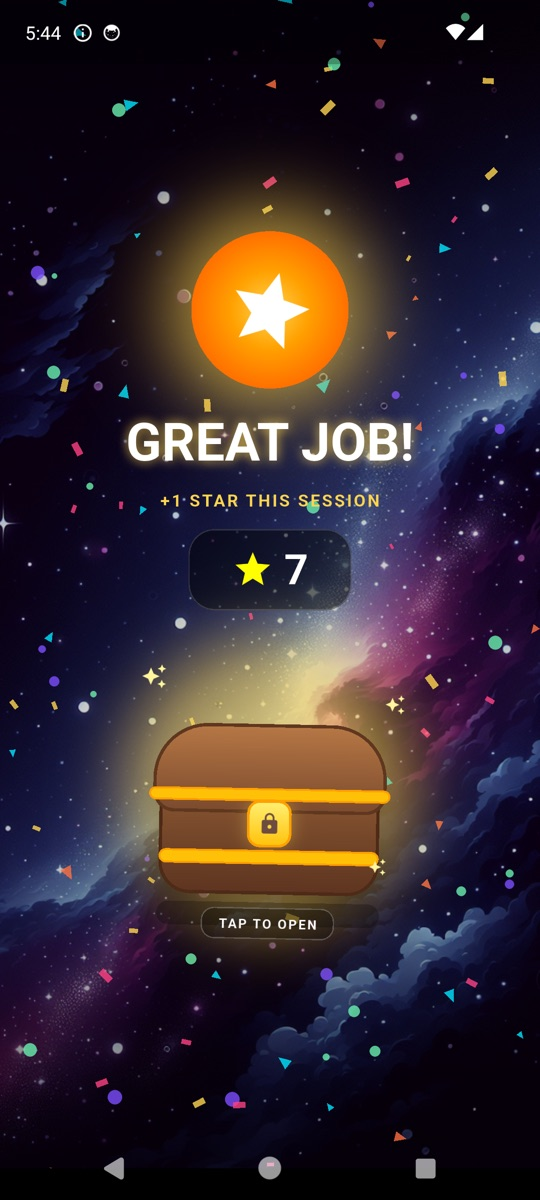
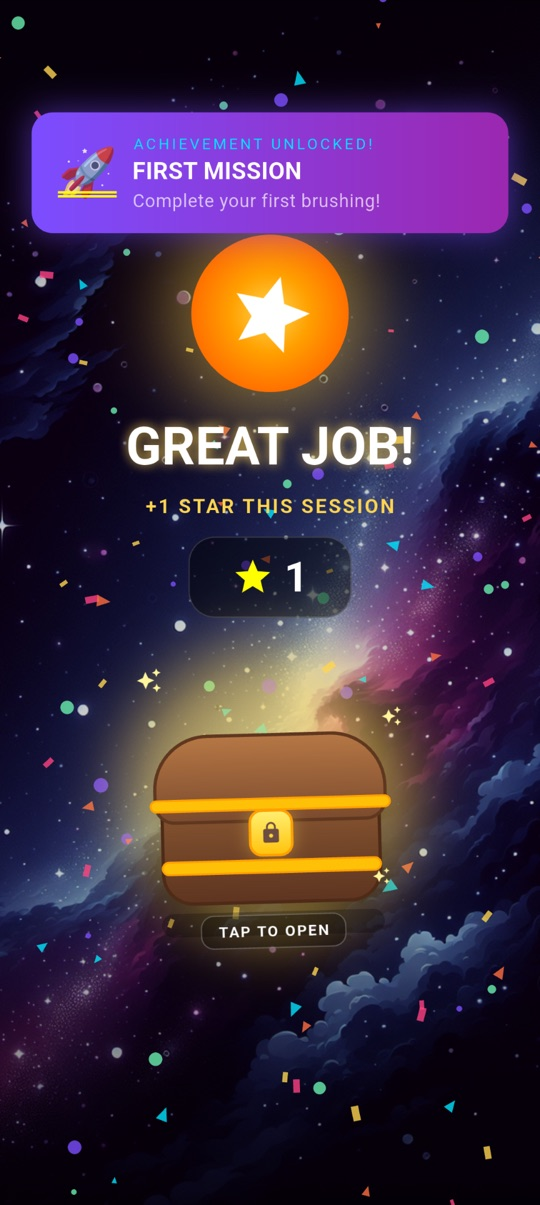
Landing page v3: 12-point audit fix, fresh screenshots, family photo
- Hero pivot: "What if brushing was the one battle they wanted to fight?"
- Removed false claims: "Free Forever", "No Tracking" (Firebase Analytics exists)
- Removed redundant numbers bar, scroll-hint overlap
- Rewrote 5 feature cards from parent perspective (agent-researched)
- Story centers Oliver, not dad; real family photo replaces placeholder
- Fresh screenshots from latest app build (home, battle, heroes, victory)
- CSS fixes: aspect-ratio lock on feature graphic + screenshot images
- Video gets controls attribute for fallback playback
- Added Landing Page / Marketing Copy rules to CLAUDE.md

diff --git a/docs/index.html b/docs/index.html
@@ -4,7 +4,7 @@
   <meta charset="UTF-8">
   <meta name="viewport" content="width=device-width, initial-scale=1.0">
   <title>Brush Quest - Kids Toothbrushing App That Makes Brushing Fun</title>
-  <meta name="description" content="Your kid will beg to brush their teeth. Free Android app that turns 2 minutes of brushing into a space battle. 10 worlds, 70 monsters.">
+  <meta name="description" content="Your kid will beg to brush their teeth. Android app that turns 2 minutes of brushing into a space battle. 10 worlds, 70 monsters.">
   <meta name="author" content="Jim Chabas">
   <meta name="theme-color" content="#0D0B2E">
   <meta name="robots" content="index, follow">
@@ -23,7 +23,7 @@
 
   <!-- Open Graph -->
   <meta property="og:title" content="Brush Quest - Kids Toothbrushing App That Makes Brushing Fun">
-  <meta property="og:description" content="Your kid will actually ask to brush their teeth. Free Android toothbrushing app for kids — no ads, no tracking.">
+  <meta property="og:description" content="Your kid will actually ask to brush their teeth. Android toothbrushing app for kids — 10 worlds, 70 monsters, no ads.">
   <meta property="og:image" content="https://jmchabas.github.io/brush-quest/feature-graphic.jpg">
   <meta property="og:image:width" content="1024">
   <meta property="og:image:height" content="500">
@@ -34,7 +34,7 @@
   <!-- Twitter Card -->
   <meta name="twitter:card" content="summary_large_image">
   <meta name="twitter:title" content="Brush Quest - Kids Toothbrushing App That Makes Brushing Fun">
-  <meta name="twitter:description" content="Your kid will actually ask to brush their teeth. Free Android toothbrushing app for kids — no ads, no tracking.">
+  <meta name="twitter:description" content="Your kid will actually ask to brush their teeth. Android toothbrushing app for kids — 10 worlds, 70 monsters, no ads.">
   <meta name="twitter:image" content="https://jmchabas.github.io/brush-quest/feature-graphic.jpg">
 
   <!-- Structured Data: SoftwareApplication -->
@@ -76,7 +76,7 @@
         "name": "Is it really free?",
         "acceptedAnswer": {
           "@type": "Answer",
-          "text": "Yes, completely. No ads, no in-app purchases, no premium tiers, no subscriptions. Jim built it for his own kids and shares it with other families for free."
+          "text": "Yes. No ads, no in-app purchases, no subscriptions. Built for Jim's own kids and shared with other families."
         }
       },
       {
@@ -84,7 +84,7 @@
         "name": "Is it safe for my child?",
         "acceptedAnswer": {
           "@type": "Answer",
-          "text": "Brush Quest collects no personal data. The optional Google Sign-In is only for cloud saves. There are no social features, no chat, no links to external sites. The app is designed to be COPPA-compliant."
+          "text": "The optional Google Sign-In is only for cloud saves. There are no social features, no chat, no links to external sites. The app is designed to be COPPA-compliant."
         }
       },
       {
@@ -312,6 +312,9 @@
     .hero-graphic {
       width: 100%;
       max-width: 560px;
+      height: auto;
+      aspect-ratio: 1024 / 500;
+      object-fit: contain;
       border-radius: 20px;
       margin-bottom: 32px;
       box-shadow:
@@ -516,6 +519,7 @@
 
     .phone-bezel img {
       width: 100%;
+      height: auto;
       border-radius: 18px;
       display: block;
     }
@@ -755,17 +759,15 @@
 
     .story-photo {
       width: 100%;
-      aspect-ratio: 4 / 3;
       border-radius: 20px;
-      border: 2px dashed rgba(124, 77, 255, 0.3);
-      display: flex;
-      align-items: center;
-      justify-content: center;
-      background: var(--bg-card);
-      color: var(--white-dim);
-      font-size: 0.9rem;
-      text-align: center;
-      padding: 24px;
+      overflow: hidden;
+    }
+
+    .story-photo img {
+      width: 100%;
+      height: auto;
+      border-radius: 20px;
+      display: block;
     }
 
     /* === FAQ === */
@@ -1128,20 +1130,14 @@
     <!-- ========== HERO ========== -->
     <section class="hero" id="hero">
       <p class="hero-pain">"Every night, the same battle.<br>'Brush your teeth!' &hellip; 'I don't want to!'"</p>
-      <p class="hero-pivot">What if they begged to fight cavity monsters instead?</p>
+      <p class="hero-pivot">What if brushing was the one battle they wanted to fight?</p>
       <img src="feature-graphic.jpg" alt="Brush Quest - A space astronaut hero fighting cavity monsters with a glowing toothbrush" class="hero-graphic" width="1024" height="500" fetchpriority="high">
       <h1>Brush Quest</h1>
-      <p class="tagline">10 worlds. 70 monsters. 2 minutes of brushing. 0 arguments.</p>
+      <p class="tagline">The toothbrushing app that turns 2 minutes into an adventure.</p>
       <a href="https://drive.google.com/uc?export=download&id=16lFngFzb5AP0ltEK9Uq20Pp-pP04Sc2R" class="hero-cta" rel="noopener noreferrer">
         <svg viewBox="0 0 24 24" aria-hidden="true"><path d="M5 20h14v-2H5v2zm7-18v12.17l3.59-3.58L17 12l-5 5-5-5 1.41-1.41L12 14.17V2z"/></svg>
-        Download Free for Android
+        Download for Android
       </a>
-      <div class="numbers-bar">
-        <span class="number-stat">&#x1F30D; 10 Worlds</span>
-        <span class="number-stat">&#x1F47E; 70 Monsters</span>
-        <span class="number-stat">&#x1F9D1;&#x200D;&#x1F680; 12 Heroes &amp; Weapons</span>
-        <span class="number-stat">&#x2B50; 100% Free</span>
-      </div>
       <div class="trust-badges">
         <span class="trust-badge">
           <svg viewBox="0 0 24 24" aria-hidden="true"><path d="M12 1L3 5v6c0 5.55 3.84 10.74 9 12 5.16-1.26 9-6.45 9-12V5l-9-4z"/></svg>
@@ -1149,11 +1145,7 @@
         </span>
         <span class="trust-badge">
           <svg viewBox="0 0 24 24" aria-hidden="true"><path d="M12 1L3 5v6c0 5.55 3.84 10.74 9 12 5.16-1.26 9-6.45 9-12V5l-9-4z"/></svg>
-          No Tracking
-        </span>
-        <span class="trust-badge">
-          <svg viewBox="0 0 24 24" aria-hidden="true"><path d="M12 1L3 5v6c0 5.55 3.84 10.74 9 12 5.16-1.26 9-6.45 9-12V5l-9-4z"/></svg>
-          Free Forever
+          No In-App Purchases
         </span>
         <span class="trust-badge">
           <svg viewBox="0 0 24 24" aria-hidden="true"><path d="M12 1L3 5v6c0 5.55 3.84 10.74 9 12 5.16-1.26 9-6.45 9-12V5l-9-4z"/></svg>
@@ -1161,10 +1153,6 @@
         </span>
       </div>
       <p class="hero-note">Android phones and tablets</p>
-      <div class="scroll-hint">
-        Scroll to learn more
-        <svg viewBox="0 0 24 24"><path d="M7.41 8.59L12 13.17l4.59-4.58L18 10l-6 6-6-6z"/></svg>
-      </div>
     </section>
 
     <!-- ========== SCREENSHOTS ========== -->
@@ -1178,25 +1166,25 @@
       <div class="phone-scroll">
         <div class="phone-frame">
           <div class="phone-bezel">
-            <img src="screenshot_home.jpg" alt="Home screen showing hero character Blaze with stats and Brush Now button" loading="lazy" width="540" height="1200">
+            <img src="screenshot_home.jpg" alt="Home screen showing hero character Blaze with stats and Brush Now button" loading="lazy" width="540" height="1205">
           </div>
           <p class="phone-caption">Choose your hero</p>
         </div>
         <div class="phone-frame">
           <div class="phone-bezel">
-            <img src="screenshot_battle.jpg" alt="Battle screen fighting Lord Tartar monster with POW effects in Candy Crater world" loading="lazy" width="540" height="1200">
+            <img src="screenshot_battle.jpg" alt="Battle screen fighting Lord Tartar monster with POW effects in Candy Crater world" loading="lazy" width="540" height="1205">
           </div>
           <p class="phone-caption">Brush to attack monsters</p>
         </div>
         <div class="phone-frame">
           <div class="phone-bezel">
-            <img src="screenshot_shop.jpg" alt="Heroes and Weapons shop showing unlockable characters Blaze, Frost, Bolt, Shadow" loading="lazy" width="540" height="1200">
+            <img src="screenshot_shop.jpg" alt="Heroes and Weapons shop showing unlockable characters Blaze, Frost, Bolt, Shadow" loading="lazy" width="540" height="1205">
           </div>
           <p class="phone-caption">Unlock heroes &amp; weapons</p>
         </div>
         <div class="phone-frame">
           <div class="phone-bezel">
-            <img src="screenshot_victory.jpg" alt="Victory screen with confetti, star reward, and treasure chest after brushing session" loading="lazy" width="540" height="1200">
+            <img src="screenshot_victory.jpg" alt="Victory screen with confetti, star reward, and treasure chest after brushing session" loading="lazy" width="540" height="1205">
           </div>
           <p class="phone-caption">Earn stars &amp; open reward chests</p>
         </div>
@@ -1207,14 +1195,14 @@
     <div class="mid-cta">
       <a href="https://drive.google.com/uc?export=download&id=16lFngFzb5AP0ltEK9Uq20Pp-pP04Sc2R" rel="noopener noreferrer">
         <svg viewBox="0 0 24 24" aria-hidden="true"><path d="M5 20h14v-2H5v2zm7-18v12.17l3.59-3.58L17 12l-5 5-5-5 1.41-1.41L12 14.17V2z"/></svg>
-        Like what you see? Download Free
+        Get Brush Quest for Android
       </a>
     </div>
 
     <!-- ========== GAMEPLAY VIDEO ========== -->
     <section class="video-section">
       <div class="video-phone">
-        <video muted loop playsinline preload="none" poster="gameplay-poster.jpg" aria-label="Gameplay video showing a child brushing their teeth while fighting monsters in Brush Quest">
+        <video muted loop playsinline controls preload="none" poster="gameplay-poster.jpg" aria-label="Gameplay video showing a child brushing their teeth while fighting monsters in Brush Quest">
           <source src="gameplay.mp4" type="video/mp4">
         </video>
       </div>
@@ -1266,34 +1254,29 @@
         </div>
         <div class="features-grid">
           <div class="feature-card">
-            <span class="feature-icon">&#x23F1;&#xFE0F;</span>
-            <h3>2 Minutes, Zero Arguments</h3>
-            <p>Dentist-recommended brushing time split into 4 mouth zones. A voice guide and tooth diagram show exactly where to brush. They won't want to stop.</p>
-          </div>
-          <div class="feature-card">
             <span class="feature-icon">&#x1F47E;</span>
-            <h3>70 Monsters. New Ones Every Session.</h3>
-            <p>Collectible monster cards across 10 space worlds. Each brush session reveals new creatures. "Can I brush again?" &mdash; actual words you'll hear.</p>
+            <h3>They'll Beg to Brush Again</h3>
+            <p>70 monsters across 10 worlds. New enemies every session, unlockable heroes and weapons. The "one more level" loop &mdash; for dental hygiene.</p>
           </div>
           <div class="feature-card">
-            <span class="feature-icon">&#x1F9D1;&#x200D;&#x1F680;</span>
-            <h3>They Pick the Hero. You Pick Your Battles.</h3>
-            <p>6 heroes and 6 weapons to unlock. Kids earn stars from brushing and choose their own character. Ownership drives consistency.</p>
-          </div>
-          <div class="feature-card">
-            <span class="feature-icon">&#x1FA90;</span>
-            <h3>10 Worlds of "Can I Brush Again?"</h3>
-            <p>From Candy Crater to Dark Dimension. Progress unlocks naturally &mdash; no pressure, just adventure.</p>
-          </div>
-          <div class="feature-card feature-highlight">
-            <span class="feature-icon">&#x1F49A;</span>
-            <h3>Free. No Catches.</h3>
-            <p>No ads. No in-app purchases. No subscriptions. No data collection. Built by a parent for parents. Your kid's attention isn't for sale.</p>
+            <span class="feature-icon">&#x23F1;&#xFE0F;</span>
+            <h3>Two Minutes. Four Zones. Done.</h3>
+            <p>Voice guide tells them where to brush: top left, top right, bottom left, bottom right. You press start. They follow along.</p>
           </div>
           <div class="feature-card">
             <span class="feature-icon">&#x1F399;&#xFE0F;</span>
             <h3>Works Before They Can Read</h3>
-            <p>Voice guidance and icons throughout. Designed for children ages 5&ndash;12 who can't read yet. They can play independently from day one.</p>
+            <p>Every instruction spoken aloud. Visual mouth guide shows which teeth to brush. Designed for ages 5 and up.</p>
+          </div>
+          <div class="feature-card">
+            <span class="feature-icon">&#x2B50;</span>
+            <h3>Earned, Never Bought</h3>
+            <p>6 heroes and 6 weapons, unlocked by brushing consistently. No in-app purchases. Every reward comes from showing up.</p>
+          </div>
+          <div class="feature-card feature-highlight">
+            <span class="feature-icon">&#x1F9D1;&#x200D;&#x1F680;</span>
+            <h3>Built by a Dad. Tested by a 7-Year-Old.</h3>
+            <p>Not a corporation. A dad who got tired of the brushing fight. Tested on his own kids, every single night.</p>
           </div>
         </div>
       </div>
@@ -1303,23 +1286,22 @@
     <section class="story-section">
       <div class="container">
         <div class="section-title">
-          <h2>Built by a Dad, Tested by His Kids</h2>
+          <h2>How Oliver Stopped Hating Toothbrushing</h2>
         </div>
         <div class="story-grid">
           <div class="story-text">
-            <h3>This app exists because of a 7-year-old named Oliver.</h3>
-            <p>Every night was the same fight. "Go brush your teeth." "I don't want to." Repeat until someone loses their patience. Sound familiar?</p>
-            <p>So his dad Jim &mdash; a developer &mdash; built a game. Oliver became the lead designer: he chose the heroes, picked which monsters were scary enough, and demanded surprise rewards after every session.</p>
-            <p>Oliver now reminds US it's brushing time. He literally runs to the bathroom. We created a monster. A cavity-fighting, star-collecting, hero-unlocking monster.</p>
-            <p>Then something unexpected happened. Oliver's 3-year-old brother Theo saw the app and insisted on brushing "like a big boy." Two kids, fighting over who gets to brush first &mdash; making dental hygiene fun instead of a fight.</p>
+            <h3>Oliver is 7. He used to fight his parents every single night.</h3>
+            <p>"Go brush your teeth." "I don't want to." Repeat until someone loses their patience. Sound familiar?</p>
+            <p>Then his dad built him a game. Oliver became the lead designer: he chose which heroes looked cool, which monsters were scary enough, and demanded surprise rewards after every session.</p>
+            <p>Now Oliver reminds his parents it's brushing time. He runs to the bathroom. He fights over who goes first with his 3-year-old brother Theo, who insists on brushing "like a big boy."</p>
+            <p>Two kids. Zero arguments. The same app, shared with your family.</p>
             <div class="story-quote">
               <p>"I built this because no app on the store felt right &mdash; too many ads, too much screen time guilt. This one just helps them brush."</p>
-              <span class="quote-attr">&mdash; Jim, parent to parent</span>
+              <span class="quote-attr">&mdash; Jim, Oliver's dad</span>
             </div>
-            <p>Brush Quest isn't a corporate product. It's a family project, shared with yours.</p>
           </div>
           <div class="story-photo">
-            Photo coming soon &mdash;<br>Jim, Oliver (7) &amp; Theo (3)<br>testing Brush Quest together
+            <img src="family-photo.jpg" alt="Jim reading a bedtime story with Oliver (7) and Theo (3)" width="800" height="721" loading="lazy">
           </div>
         </div>
       </div>
@@ -1334,11 +1316,11 @@
         <div class="faq-list">
           <details>
             <summary>Is it really free?</summary>
-            <div class="faq-answer">Yes, completely. No ads, no in-app purchases, no premium tiers, no subscriptions. Jim built it for his own kids and shares it with other families for free.</div>
+            <div class="faq-answer">Yes. No ads, no in-app purchases, no subscriptions. Built for Jim's own kids and shared with other families.</div>
           </details>
           <details>
             <summary>Is it safe for my child?</summary>
-            <div class="faq-answer">Brush Quest collects no personal data. The optional Google Sign-In is only for cloud saves (so you don't lose progress if you switch phones). There are no social features, no chat, no links to external sites. The app is designed to be COPPA-compliant.</div>
+            <div class="faq-answer">The optional Google Sign-In is only for cloud saves (so you don't lose progress if you switch phones). There are no social features, no chat, no links to external sites. The app is designed to be COPPA-compliant.</div>
           </details>
           <details>
             <summary>Does it work offline?</summary>
@@ -1398,11 +1380,11 @@
           </span>
           <span class="trust-badge">
             <svg viewBox="0 0 24 24" aria-hidden="true"><path d="M12 1L3 5v6c0 5.55 3.84 10.74 9 12 5.16-1.26 9-6.45 9-12V5l-9-4z"/></svg>
-            No Tracking
+            No In-App Purchases
           </span>
           <span class="trust-badge">
             <svg viewBox="0 0 24 24" aria-hidden="true"><path d="M12 1L3 5v6c0 5.55 3.84 10.74 9 12 5.16-1.26 9-6.45 9-12V5l-9-4z"/></svg>
-            Free Forever
+            Kid-Safe Privacy
           </span>
         </div>
         <button class="share-btn" onclick="shareApp()">
@@ -1427,10 +1409,10 @@
 
   <!-- Sticky CTA bar -->
   <div class="sticky-cta" id="stickyCta">
-    <span class="sticky-cta-text">Free toothbrushing app for kids</span>
+    <span class="sticky-cta-text">Toothbrushing app for kids</span>
     <a href="https://drive.google.com/uc?export=download&id=16lFngFzb5AP0ltEK9Uq20Pp-pP04Sc2R" rel="noopener noreferrer">
       <svg viewBox="0 0 24 24" aria-hidden="true"><path d="M5 20h14v-2H5v2zm7-18v12.17l3.59-3.58L17 12l-5 5-5-5 1.41-1.41L12 14.17V2z"/></svg>
-      Download Free
+      Download Now
     </a>
   </div>
 
@@ -1468,7 +1450,7 @@
         btns.forEach(function(btn) {
           btn.removeAttribute('href');
           btn.style.cursor = 'default';
-          btn.innerHTML = btn.innerHTML.replace(/Download.*/, 'Coming Soon to iOS');
+          btn.innerHTML = btn.innerHTML.replace(/Download[^<]*|Get[^<]*/, 'Coming Soon to iOS');
         });
         var sub = document.querySelector('.download-sub');
         if (sub) sub.textContent = 'Android only for now — share this with an Android friend!';

diff --git a/CLAUDE.md b/CLAUDE.md
@@ -4,7 +4,12 @@
 An Android app to help 7-year-old boys build a toothbrushing habit through gamification.
 Theme: Space Rangers vs Cavity Monsters.
 
-## Status: v4 — Settings + Firebase Auth/Sync
+## Status: v7 — Play Store submission prep (feature-complete)
+
+## Cross-Session Coordination
+- **FEATURE FREEZE**: No new features until 100 real users (D-003). Only: bug fixes, Play Store requirements, analytics.
+- After significant work (commits, deploys, decisions), auto-update your workstream section in `STATUS.md`. Don't wait for Jim to ask.
+- For strategy/CEO mode, use `/ceo`. For manual status update, use `/status`.
 
 ## Pre-Ship UX Checklist
 Before shipping any screen or flow, do a first-person walkthrough as the end user (a 7-year-old who can't read). For every screen ask:
@@ -102,6 +107,15 @@ assets/
 - Periodic music health check (every 5s) restarts music if player gets stuck
 - Mute state persisted in SharedPreferences
 
+## Quality Gates
+After modifying `.dart` files, run these before reporting done:
+1. **`dart analyze`** — static analysis (auto-runs via Claude Code hook on Edit/Write)
+2. **`flutter test`** — unit/widget tests must pass
+3. **`semgrep --config auto lib/`** — security scanning (if installed)
+4. **`gitleaks detect --source .`** — secret detection (if installed)
+
+If a gate fails, fix the issue before presenting the result.
+
 ## Build & Run
 ```bash
 export JAVA_HOME="/opt/homebrew/opt/openjdk@17/libexec/openjdk.jdk/Contents/Home"
@@ -110,6 +124,22 @@ flutter run          # run on connected device/emulator
 flutter build apk    # build release APK
 ```
 Note: JDK 17 required. JDK 25 is incompatible with AGP 8.11.1.
+
+## Landing Page / Marketing Copy Rules
+
+### Copy & Messaging
+1. **Write from the parent's lived experience, not the product's features.** Ask: "What does the parent already feel about this problem?" Acknowledge it with humor or empathy, then pivot to the outcome. Read each line aloud — would a real person say this to a friend?
+2. **Never state a business commitment the codebase can't guarantee.** No "Free Forever," "No Tracking," "No Ads Ever" unless architecturally enforced. Check actual dependencies (Firebase Analytics, ad SDKs) before making privacy/pricing claims. Use softer language ("No in-app purchases," "Kid-safe privacy").
+3. **Kill filler sections.** If two sections say the same thing (e.g., stats bar + feature cards both listing "4 quadrants, 2 minutes"), cut the weaker one. Every section must earn its scroll.
+
+### Visual / Technical
+4. **Lock aspect ratios for all media.** Every `<img>` must have `height: auto` + explicit `aspect-ratio` in CSS matching source dimensions. Never rely on `width: 100%` alone. Verify at 320px, 768px, 1440px widths.
+5. **Check every absolute/fixed element for overlap at all breakpoints.** Test at 375px, 768px, 1440px. Overlapping text is never acceptable.
+
+### Process
+6. **Do a parent CUJ walkthrough before shipping.** Simulate a tired parent scrolling on their phone at 9pm. Walk each section: "Does this make me trust the app more, or is it noise?"
+7. **Story sections center the child, not the parent.** The parent is the buyer but the child is the user. The child's transformation is the story.
+8. **Self-review checklist before done:** (a) Every factual claim true given the codebase? (b) Would I cringe reading this copy on someone else's site? (c) Tested every image at 3 viewport widths? (d) Does each section say something the previous didn't?
 
 ## Next Steps / Ideas
 - Morning/evening detection (sun/moon icon)
